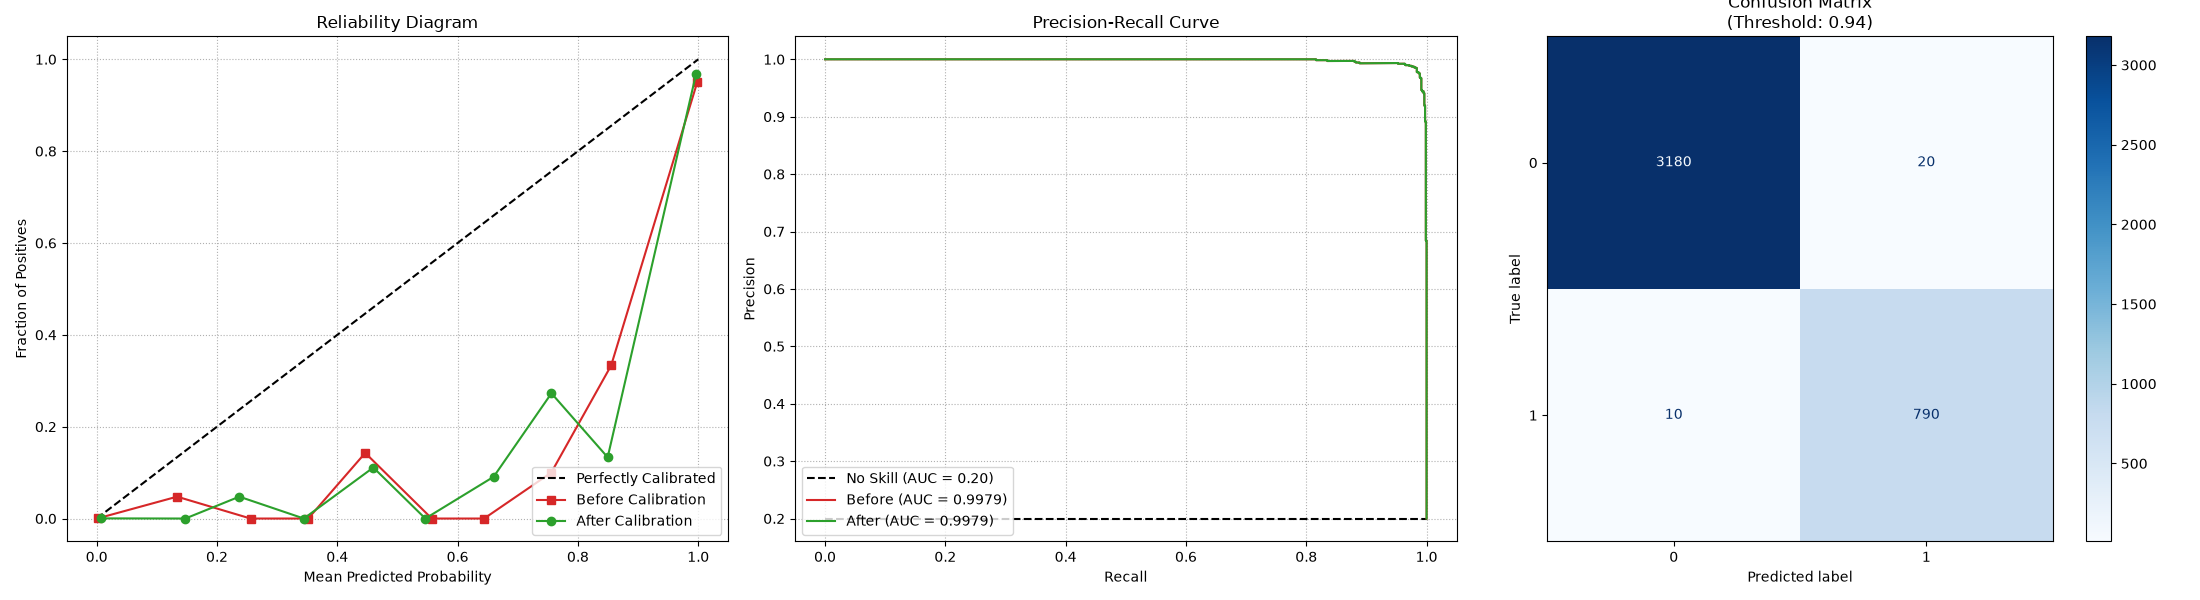
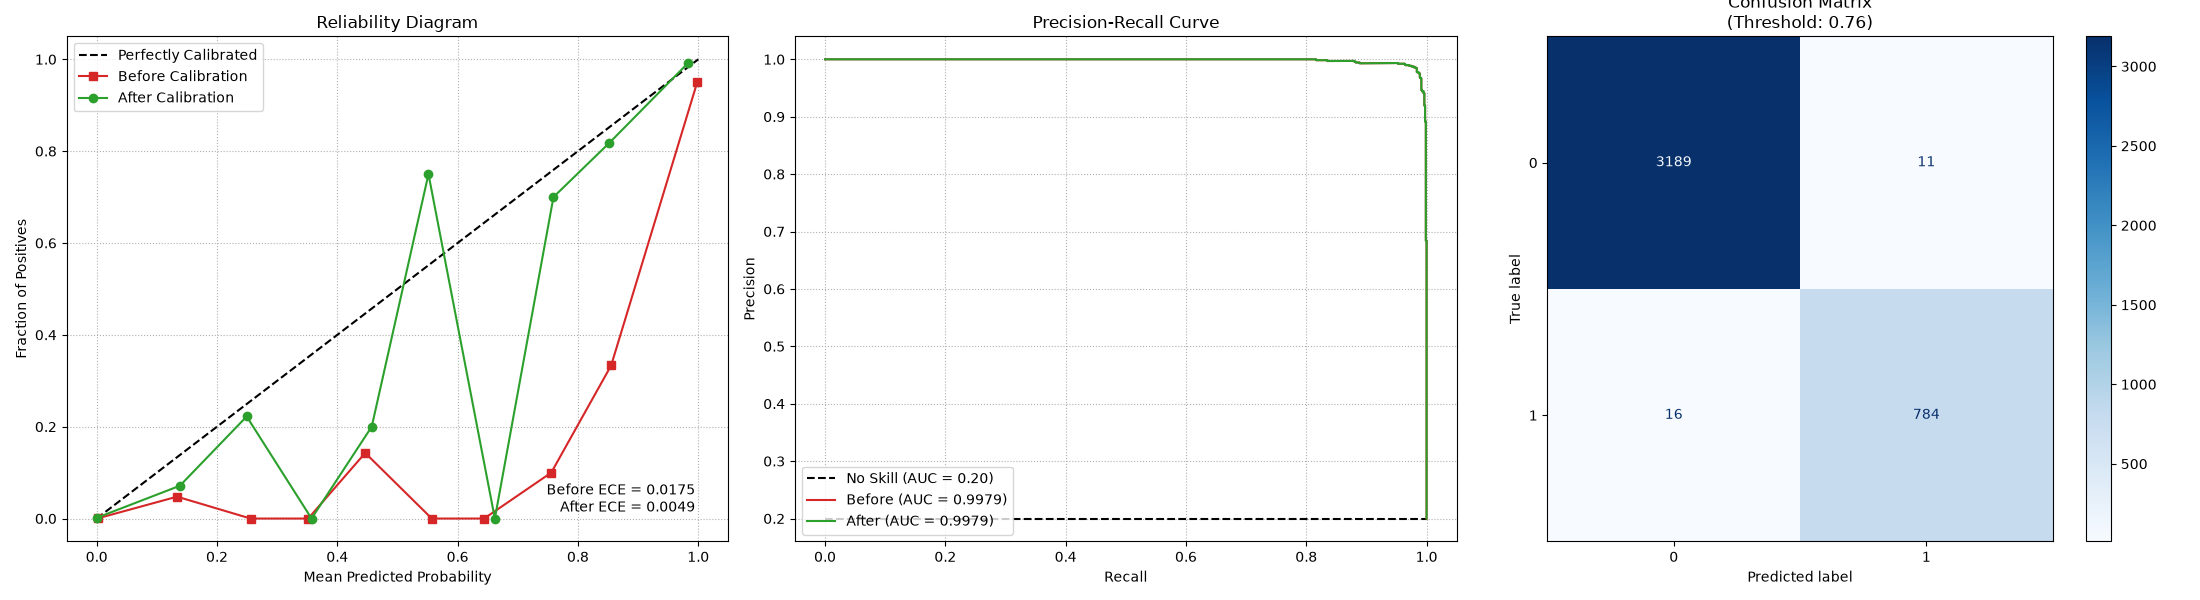
Added changes to evaluators to load platt scaling parameters

diff --git a/src/evaluation/binary/baseline_evaluator.py b/src/evaluation/binary/baseline_evaluator.py
@@ -11,11 +11,12 @@ from sklearn.metrics import log_loss, brier_score_loss
 from sklearn import metrics
 
 class BaselineEvaluator:
-    def __init__(self, model, encoder, vectorizer, temperature, test_set_50_50, test_set_80_20, text_column, label_column): 
+    def __init__(self, model, encoder, vectorizer, A, B, test_set_50_50, test_set_80_20, text_column, label_column): 
         self.model = model
         self.encoder = encoder
         self.vectorizer = vectorizer
-        self.temperature = temperature
+        self.A = A
+        self.B = B
         self.test_set_50_50 = test_set_50_50
         self.test_set_80_20 = test_set_80_20
         self.text_column = text_column
@@ -85,10 +86,10 @@ class BaselineEvaluator:
         return np.vstack([1 - probs, probs]).T  # Return as a 2D array with shape (n_samples, 2)
 
     def predict_proba_temp_scaled(self, X):
-        logits = self.model.predict_proba(X)
-        scaled_logits = logits ** (1 / self.temperature)
-        scaled_probs = scaled_logits / scaled_logits.sum(axis=1, keepdims=True)
-        return scaled_probs
+        raw_logits = self._get_logits(X)
+        scaled_logits = self.A * raw_logits + self.B
+        probs = 1 / (1 + np.exp(-scaled_logits))
+        return np.vstack([1 - probs, probs]).T  # Return as a 2D array with shape (n_samples, 2)
 
     def evaluate_calibrated(self):
 
@@ -156,8 +157,31 @@ class BaselineEvaluator:
         fig, (ax1, ax2, ax3) = plt.subplots(1, 3, figsize=(18, 6))
 
         ## 1. Create Reliability Diagram comparing uncalibrated vs calibrated models
-        prob_true_uncal, prob_pred_uncal = calibration_curve(y_test_80_20, y_uncal_proba, n_bins=10)
-        prob_true_cal, prob_pred_cal = calibration_curve(y_test_80_20, y_cal_proba_pos, n_bins=10)
+        n_bins = 10
+        prob_true_uncal, prob_pred_uncal = calibration_curve(y_test_80_20, y_uncal_proba, n_bins=n_bins, strategy='uniform')
+        prob_true_cal, prob_pred_cal = calibration_curve(y_test_80_20, y_cal_proba_pos, n_bins=n_bins, strategy='uniform')
+
+        bin_edges = np.linspace(0, 1, n_bins + 1)
+                                
+        # np.digitize returns 1-indexed bins; subtract 1 to match 0-indexing
+        uncal_bin_idx = np.digitize(y_uncal_proba, bin_edges) - 1
+        cal_bin_idx = np.digitize(y_cal_proba_pos, bin_edges) - 1
+        
+        # Clip upper outliers (like exactly 1.0) into the topmost bin
+        uncal_bin_idx = np.clip(uncal_bin_idx, 0, n_bins - 1)
+        cal_bin_idx = np.clip(cal_bin_idx, 0, n_bins - 1)
+
+        # 3. Calculate sample sizes per bin
+        bin_total_uncal = np.bincount(uncal_bin_idx, minlength=n_bins) 
+        bin_total_cal = np.bincount(cal_bin_idx, minlength=n_bins) 
+
+        # 4. Filter missing bins to match scikit-learn's shortened output arrays
+        uncal_mask = bin_total_uncal > 0
+        cal_mask = bin_total_cal > 0
+
+        # 5. Compute accurate ECE weights
+        uncal_ece = np.sum(np.abs(prob_true_uncal - prob_pred_uncal) * bin_total_uncal[uncal_mask]) / len(y_test_80_20)
+        cal_ece = np.sum(np.abs(prob_true_cal - prob_pred_cal) * bin_total_cal[cal_mask]) / len(y_test_80_20)
         
         ax1.plot([0, 1], [0, 1], "k--", label="Perfect Calibration")
         ax1.plot(prob_pred_uncal, prob_true_uncal, "s-", color="red", label="Uncalibrated")
@@ -165,7 +189,11 @@ class BaselineEvaluator:
         ax1.set_xlabel("Mean Predicted Probability")
         ax1.set_ylabel("Fraction of Positives")
         ax1.set_title("Reliability Diagram")
-        ax1.legend(loc="lower right")
+        ax1.legend(loc='upper left')
+        ax1.text(0.95, 0.05, f'Before ECE = {uncal_ece:.4f}\nAfter ECE = {cal_ece:.4f}', 
+                verticalalignment='bottom', horizontalalignment='right',
+                transform=ax1.transAxes,
+                color='black', fontsize=10)
 
         ## 2. Create confusion matrix for calibrated results
         cm = metrics.confusion_matrix(y_test_80_20, y_pred_cal)

diff --git a/scripts/evaluate_binary_models.py b/scripts/evaluate_binary_models.py
@@ -32,7 +32,8 @@ def main():
 
     baseline_model = baseline_artifacts["model"]
     baseline_vectorizer= baseline_artifacts["vectorizer"]
-    baseline_temperature = baseline_artifacts["temperature"]
+    baseline_A = baseline_artifacts["A"]
+    baseline_B = baseline_artifacts["B"]
     baseline_encoder = baseline_artifacts["encoder"]
 
     text_column, label_column = "Full_Text", "Label"
@@ -40,7 +41,8 @@ def main():
     baseline_evaluator = BaselineEvaluator(
         model=baseline_model,
         vectorizer=baseline_vectorizer,
-        temperature=baseline_temperature,
+        A=baseline_A,
+        B=baseline_B,
         encoder=baseline_encoder,
         test_set_50_50=test_50_50_df,
         test_set_80_20=test_80_20_df,
@@ -67,7 +69,7 @@ def main():
         device=device
     )
 
-    temperature_scaler, optimal_threshold = BinaryBERTCalibrator.load_calibration_artifacts(
+    scaler, optimal_threshold = BinaryBERTCalibrator.load_calibration_artifacts(
         path=calibrated_artifacts_path,
         device=device
     )
@@ -83,7 +85,7 @@ def main():
     bert_evaluator = BinaryBertEvaluator(
         model=model,
         device=device,
-        temperature=temperature_scaler,
+        scaler=scaler,
         threshold=optimal_threshold,
         test_50_50=test_50_50_loader,
         test_80_20=test_80_20_loader

diff --git a/src/evaluation/binary/bert_evaluator.py b/src/evaluation/binary/bert_evaluator.py
@@ -9,10 +9,10 @@ from sklearn.calibration import calibration_curve
 
 
 class BinaryBertEvaluator:
-    def __init__(self, model, device, temperature, threshold, test_50_50, test_80_20):
+    def __init__(self, model, device, scaler, threshold, test_50_50, test_80_20):
         self.model = model
         self.device = device
-        self.temperature = temperature
+        self.scaler = scaler
         self.threshold = threshold
         self.test_50_50 = test_50_50
         self.test_80_20 = test_80_20
@@ -33,9 +33,9 @@ class BinaryBertEvaluator:
     def evaluate_all(self):
     
         self.model.eval()
-        self.temperature.eval()
+        self.scaler.eval()
         self.model.to(self.device)
-        self.temperature.to(self.device)
+        self.scaler.to(self.device)
 
         all_probs_50_50 = []
         all_labels_50_50 = []
@@ -80,7 +80,7 @@ class BinaryBertEvaluator:
                 uncal_probs = torch.sigmoid(outputs.squeeze(-1))
                 
                 # Calibrated Pathway (using your custom module)
-                scaled_logits = self.temperature(outputs)
+                scaled_logits = self.scaler(outputs)
                 cal_probs = torch.sigmoid(scaled_logits.squeeze(-1))
 
                 all_labels_80_20.append(labels.cpu().numpy())

diff --git a/src/modelling/binary/bert/bert_calibrator.py b/src/modelling/binary/bert/bert_calibrator.py
@@ -375,7 +375,7 @@ class BinaryBERTCalibrator:
     def save_calibration_artifacts(self, save_dir):
         os.makedirs(save_dir, exist_ok=True)
         # Save the temperature scaler and model state dict
-        scaler_path = os.path.join(save_dir, 'temperature_scaler.pt')
+        scaler_path = os.path.join(save_dir, 'platt_scaler.pt')
         torch.save(self.scaler.state_dict(), scaler_path)
 
         model_path = os.path.join(save_dir, 'model_state_dict.pt')
@@ -387,11 +387,11 @@ class BinaryBERTCalibrator:
 
     @staticmethod
     def load_calibration_artifacts(path, device):
-        scaler_path = os.path.join(path, 'temperature_scaler.pt')
+        scaler_path = os.path.join(path, 'platt_scaler.pt')
         decision_threshold_path = os.path.join(path, 'optimal_threshold.json')
 
         # Load the temperature scaler
-        scaler = TemperatureScaler().to(device)
+        scaler = PlattScaler().to(device)
         scaler_state_dict = torch.load(scaler_path, map_location=device)
         scaler.load_state_dict(scaler_state_dict)
 

diff --git a/src/modelling/binary/baseline/baseline_calibrator.py b/src/modelling/binary/baseline/baseline_calibrator.py
@@ -248,9 +248,9 @@ class TFIDFBaselineCalibrator:
         ax4.set_ylabel('Fraction of Positives')
         ax4.set_title('Calibration Curve')
         ax4.legend(loc='upper left')
-        ax1.text(0.95, 0.05, f'Before ECE = {uncal_ece:.4f}\nAfter ECE = {cal_ece:.4f}', 
+        ax4.text(0.95, 0.05, f'Before ECE = {uncal_ece:.4f}\nAfter ECE = {cal_ece:.4f}', 
                                     verticalalignment='bottom', horizontalalignment='right',
-                                    transform=ax1.transAxes,
+                                    transform=ax4.transAxes,
                                     color='black', fontsize=10)
         ax4.grid(True, linestyle=':')
 
